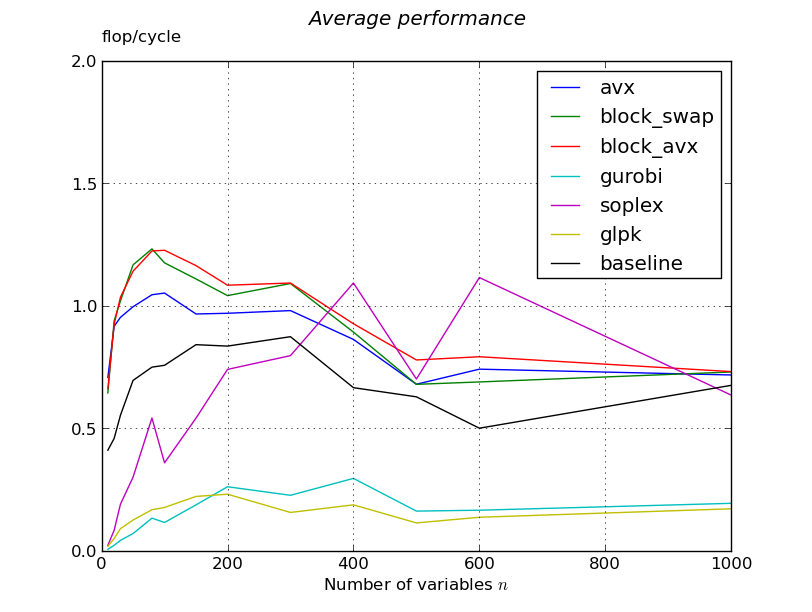
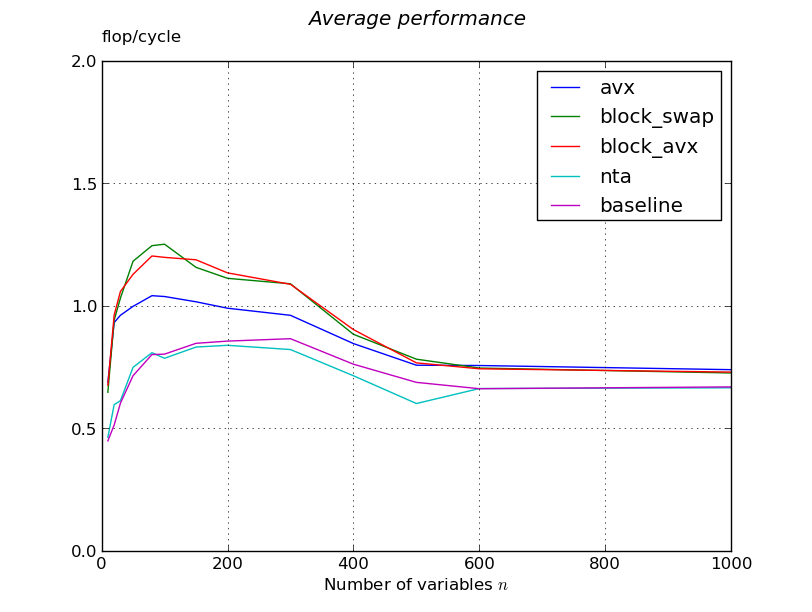
split performance in comparison with others and own optimisations added comments to lyx intro and results

diff --git a/timing/plt_roof.py b/timing/plt_roof.py
@@ -7,7 +7,7 @@ from fncplot import fncplot
 import cPickle
 
 # algorithms filtered by intersection of keep and ignore, keep can be left undefined
-keep = [ 'avx', 'baseline', 'block_swap', 'block_avx', 'block_2', 'soplex', 'gurobi', 'glpk' ]
+keep = [ 'avx', 'baseline', 'block_swap', 'block_avx', 'soplex', 'gurobi', 'glpk' ]
 #~ ignore = [ 'block_swap', 'block_2' ]
 ignore = [  'block_swap', 'block_avx' ]
 

diff --git a/timing/plt_perf.py b/timing/plt_perf.py
@@ -7,7 +7,8 @@ from fncplot import fncplot
 import cPickle
 
 # algorithms filtered by intersection of keep and ignore, keep can be left undefined
-keep = [ 'avx', 'baseline', 'block_swap', 'block_avx', 'block_2', 'soplex', 'gurobi', 'glpk' ]
+keep = [ 'baseline', 'block_swap', 'avx', 'block_avx', 'nta' ]
+#~ keep = [ 'baseline', 'soplex', 'gurobi', 'glpk' ]
 ignore = [ ]
 
 outdir = "tmp"
